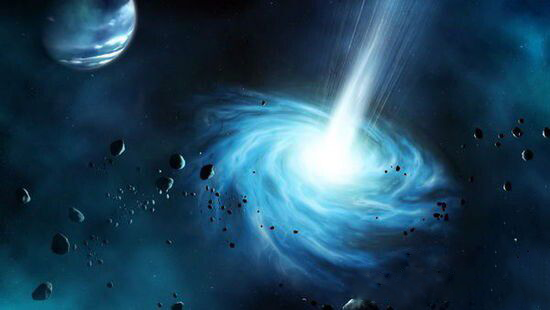
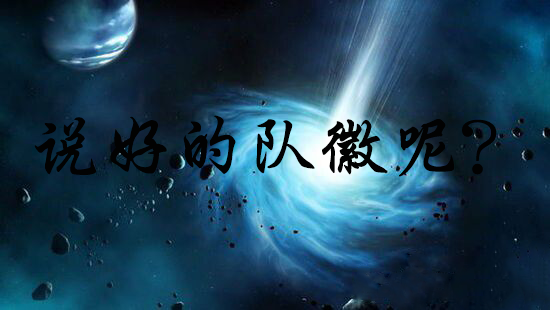
淡入淡出

Changed region(s): [[0.4636, 0.3774, 0.9273, 0.5806], [0.1855, 0.3774, 0.4327, 0.5806], [0.0618, 0.3774, 0.1855, 0.5806]]

diff --git a/src/ui/PanelFade.java b/src/ui/PanelFade.java
@@ -1,0 +1,116 @@
+package ui;
+
+import gamecontrol.Controller;
+
+import java.awt.AlphaComposite;
+import java.awt.Color;
+import java.awt.Graphics;
+import java.awt.Graphics2D;
+import java.awt.Image;
+import java.util.ArrayList;
+
+import javax.swing.JPanel;
+
+public class PanelFade extends JPanel implements Runnable{
+
+	private ArrayList<Image> images=new ArrayList<Image>();
+	private ArrayList<Integer> imageAlpha=new ArrayList<Integer>();
+	private int flag=0;
+	
+	public PanelFade() {
+		//set transparency
+        setOpaque(false) ;  
+        //clear layout
+        setLayout(null) ;
+        //set size
+        setSize(1000, 600);
+    }
+	
+	/**
+	 * use this method to add an image, because an image and an integer should be
+	 * added at the same time
+	 * @param image
+	 */
+	public void addImage(Image image){	
+    	images.add(image);
+    	imageAlpha.add(0);
+    }
+	
+	/**
+	 * this method will show all the images in the array list
+	 * fade in, fade out
+	 */
+    public void showImage() {  
+    	if(images.size()==0){
+    		return ;
+    	}
+        Thread t = new Thread(this);
+        t.start();
+    } 
+    
+    @Override
+    public void paintComponent(Graphics g1){
+    	//because Graphics2D has setComponent method
+        Graphics2D g = (Graphics2D) g1;     
+        if ( images.get(flag) != null) {
+        	//this means set transparency, g will not show the picture fully
+            g.setComposite(AlphaComposite.SrcOver  
+                    .derive((float) imageAlpha.get(flag)/ 100F));  
+            //draw the image
+            g.drawImage(images.get(flag), 0, 0, this.getWidth(),this.getHeight(), this);  
+        }  
+        super.paintComponent(g); 
+    }
+	@Override
+	public void run() {
+		  
+        while(true){
+        	/*
+        	 * fade in
+        	 */
+            while (imageAlpha.get(flag) < 100) { 
+            	imageAlpha.set(flag, imageAlpha.get(flag)+5) ;    
+                repaint(); 
+                try {  
+                    Thread.sleep(100L);  
+                } catch (InterruptedException e) {  
+                    e.printStackTrace();  
+                }  
+            }
+            
+            /*
+             * pause for 3 seconds
+             */
+            try {  
+                Thread.sleep(3000L);  
+            } catch (InterruptedException e1) {  
+                e1.printStackTrace();  
+            } 
+            
+            /*
+             * fade out
+             */
+            while (imageAlpha.get(flag) > 0) { 
+            	imageAlpha.set(flag, imageAlpha.get(flag)-5) ; 
+                repaint(); 
+                try {  
+                    Thread.sleep(100L);  
+                } catch (InterruptedException e) {  
+                    e.printStackTrace();  
+                }  
+            }
+            
+            /*
+             * get next image
+             */
+            //flag=(flag+1)%images.size();
+            if(flag<images.size()-1){
+            	flag++;
+            }else{
+            	Controller.changeTo(FrameGame.STARTPANEL);
+            	break;
+            }
+        } 
+    		
+	}  
+}

diff --git a/src/ui/FrameGame.java b/src/ui/FrameGame.java
@@ -1,7 +1,6 @@
 package ui;
 
-import gamecontrol.Controller;
-
+import java.awt.Color;
 import java.awt.Cursor;
 import java.awt.Dimension;
 import java.awt.Image;
@@ -12,6 +11,7 @@ import java.awt.event.MouseEvent;
 import java.awt.event.MouseListener;
 import java.awt.event.MouseMotionListener;
 
+import javax.swing.ImageIcon;
 import javax.swing.JFrame;
 
 public class FrameGame extends JFrame implements MouseListener,MouseMotionListener{
@@ -23,6 +23,7 @@ public class FrameGame extends JFrame implements MouseListener,MouseMotionListen
     public PanelStory0 zero=null;
     public PanelLoading loadingPanel = null;
     public PanelLoad loadPanel = null;
+    public PanelFade fadePanel = null;
     
     public static final int STARTPANEL = 0;
     public static final int FIGHTPANEL = 1;
@@ -41,6 +42,9 @@ public class FrameGame extends JFrame implements MouseListener,MouseMotionListen
     private int y;
 	
 	public FrameGame(){
+		//set background
+		setBackground(Color.BLACK);
+				
 		this.setDefaultCloseOperation(JFrame.EXIT_ON_CLOSE);
 		this.setSize(1000, 600);
 		
@@ -60,11 +64,16 @@ public class FrameGame extends JFrame implements MouseListener,MouseMotionListen
 		//able to drag
 		addMouseMotionListener(this);
 		addMouseListener(this);
+
 	}
 	
 	public void showFirstPanel(){
-		startPanel = new PanelStart();
-		this.setContentPane(startPanel);
+		fadePanel = new PanelFade();
+		fadePanel.addImage(new ImageIcon("graphics/background/0I5161P1-0.png").getImage());
+		this.setContentPane(fadePanel);
+		fadePanel.showImage();
+//		startPanel = new PanelStart();
+//		this.setContentPane(startPanel);
 	}
 
 	@Override
